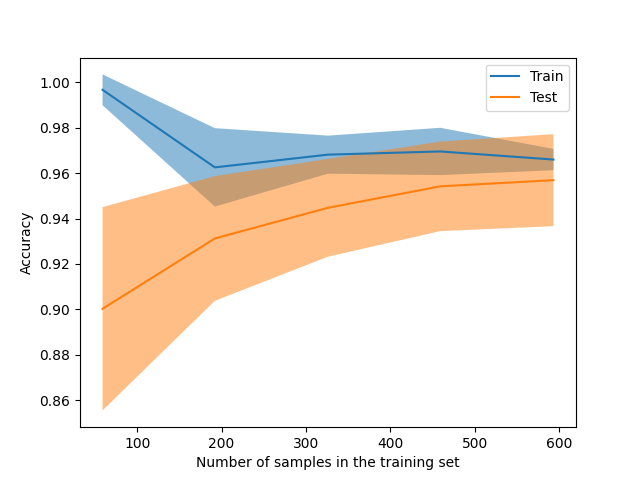
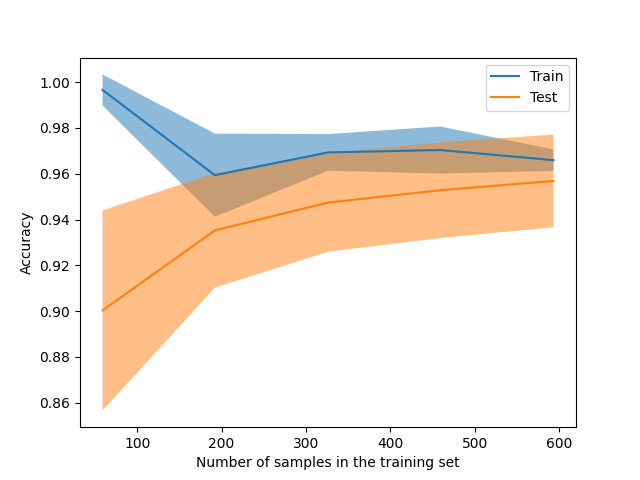
used registered model

diff --git a/templates/index.html b/templates/index.html
@@ -143,7 +143,7 @@
         
         <div class="mlflow-card">
             <h3><i class="fas fa-chart-bar"></i> MLflow Experiment Tracking</h3>
-            <a href="#" class="btn-outline">
+            <a href="{{dagshub_url}}" target="_blank" class="btn-outline">
                 <i class="fas fa-external-link-alt"></i> View Experiments on DagsHub
             </a>
         </div>

diff --git a/src/pipeline/prediction_pipeline.py b/src/pipeline/prediction_pipeline.py
@@ -2,52 +2,85 @@ import os
 import librosa
 import numpy as np
 import pandas as pd
+import mlflow
+import mlflow.pyfunc
+from src.constants import MLFLOW_TRACKING_URI
 from src.components.feature_extraction import FeatureExtractor
 from src.utils.main_utils import load_object
-from from_root import from_root
+from src.constants import SAMPLE_RATE, DURATION, MODEL_DIR
 from src.logger import logging
-from src.constants import ARTIFACT_DIR,SAMPLE_RATE, DURATION
+
+
+mlflow.set_tracking_uri(
+    MLFLOW_TRACKING_URI
+)
+
 
 class AudioPredictor:
-    def __init__(self):
+    """
+    Predicts speaker accent from an audio file by:
+      1. Loading a registered MLflow model (with preprocessing inside)
+      2. Extracting MFCC+ZCR+RMSE features from raw audio
+      3. Feeding features directly to the model
+      4. Decoding the predicted label with a saved label encoder
+    """
+
+    def __init__(self, model_version: str = "2"):
         try:
-            self.model_path = os.path.join(from_root(), "models", "model.joblib")
-            self.preprocessor_path =  os.path.join(ARTIFACT_DIR, "preprocessor.joblib")
-            self.label_encoder_path = os.path.join(ARTIFACT_DIR, "label_encoder.joblib")
-            self.label_encoder = load_object(self.label_encoder_path)
-            self.model = load_object(self.model_path)
-            self.preprocessor = load_object(self.preprocessor_path)
-            self.fe = FeatureExtractor()
-            
-            logging.info("AudioPredictor initialized successfully.")
-        except Exception as e:
-            logging.error(f"Initialization failed: {e}")
-            raise
-
-    def predict(self, audio_path):
-        try:
-            y, _ = librosa.load(audio_path, sr=SAMPLE_RATE, duration=DURATION)
-            if len(y) == 0:
-                raise ValueError("Audio file is empty or could not be loaded.")
-            
-            features = self.fe.extract_features(y)
-
-            if features is None:
-                raise ValueError("No features extracted from the audio file.")
-
-            # Define column names same as used during training
-            columns = [f"mfcc_{i+1}" for i in range(13)] + ["zcr", "rmse"]
-            features_df = pd.DataFrame([features], columns=columns)
+            # --- Load registered MLflow model ------------------------
+            self.model_uri = f"models:/AccentClassifier/{model_version}"
+            self.model = mlflow.pyfunc.PyFuncModel = mlflow.pyfunc.load_model(
+                self.model_uri
+            )
 
            
-            transformed_features = self.preprocessor.transform(features_df)
-            prediction = self.model.predict(transformed_features)
-         
-            logging.info(f"Prediction: {prediction[0]}")
+            self.label_encoder = load_object(
+                os.path.join(MODEL_DIR, "label_encoder.joblib")
+            )
+            self.fe = FeatureExtractor()
 
-            decoded_label = self.label_encoder.inverse_transform(np.ravel(prediction))[0]
-            return decoded_label  
+            logging.info("AudioPredictor initialised (model %s).", self.model_uri)
+        except Exception as exc:
+            logging.exception("Failed to initialise AudioPredictor: %s", exc)
+            raise
 
-        except Exception as e:
-            logging.error(f"Prediction failed: {e}")
-            return None  
+
+    def predict(self, audio_path: str) -> str | None:
+        """
+        Parameters
+        ----------
+        audio_path : str
+            Path to a .wav / .flac / .mp3 file.
+
+        Returns
+        -------
+        str | None
+            Predicted accent label, or None if prediction failed.
+        """
+        try:
+            # --- Load & trim/pad audio --------------------------------
+            y, _ = librosa.load(audio_path, sr=SAMPLE_RATE, duration=DURATION)
+            if y.size == 0:
+                raise ValueError("Audio file is empty or unreadable")
+
+            # --- Feature extraction -----------------------------------
+            features = self.fe.extract_features(y)
+            if features is None:
+                raise ValueError("Feature extractor returned None")
+
+            cols = [f"mfcc_{i+1}" for i in range(13)] + ["zcr", "rmse"]
+            X = pd.DataFrame([features], columns=cols)
+
+            # --- Inference (pre‑processing is inside model) -----------
+            y_pred = self.model.predict(X)
+            decoded = self.label_encoder.inverse_transform(np.ravel(y_pred))[0]
+
+            logging.info("Prediction complete: %s", decoded)
+            return decoded
+
+        except Exception as exc:
+            logging.exception("Prediction failed: %s", exc)
+            return None
+
+
+

diff --git a/src/pipeline/training_pipeline.py b/src/pipeline/training_pipeline.py
@@ -11,7 +11,8 @@ import numpy as np
 import dagshub
 import mlflow.sklearn
 from src.constants import *
-
+from sklearn.pipeline import Pipeline
+from src.utils.main_utils import load_object
 
 # Set MLflow/DagsHub tracking URI and credentials
 
@@ -56,8 +57,12 @@ if __name__ == "__main__":
             log_learning_curve(model, train_csv= TRAIN_DATA, target_col="label")  
 
             try: 
-                mlflow.sklearn.log_model(model,artifact_path="model")
+                prepeocesser = load_object(os.path.join(MODEL_DIR, "preprocessor.joblib"))
+                final_model = Pipeline(steps=[('preprocessor', prepeocesser), ('classifier', model)])
+                mlflow.sklearn.log_model(final_model,artifact_path="model")
+
                 logging.info("Model logged using mlflow.sklearn.")
+
             except Exception as e:
                 mlflow.log_artifact(MODEL_PATH, artifact_path="model")
                 logging.warning(f"Could not use mlflow.sklearn. Used log_artifact instead. Reason: {e}")

diff --git a/src/constants/__init__.py b/src/constants/__init__.py
@@ -13,7 +13,7 @@ HOP_LENGTH = 512          # Hop size for STFT
 
 NUM_FILES = 90            # Number of files per accent
 MFCC_COUNT = 13           # Number of MFCCs to extract
-ARTIFACT_DIR = os.path.join(from_root(), "artifacts")
+
 
 LABELS = {
     "indian_accent": "indian",
@@ -39,3 +39,5 @@ MODEL_PATH = os.path.join(from_root(), "models", "model.joblib")
 MODEL_DIR = os.path.join(from_root(), "models")
 METRICS_PATH = os.path.join(from_root(), "reports", "metrics.yaml")
 REPORTS_DIR = os.path.join(from_root(), "reports")
+
+MLFLOW_TRACKING_URI = "https://dagshub.com/Himanshu0518/Accent-Recognition.mlflow"

diff --git a/src/components/data_preprocessing.py b/src/components/data_preprocessing.py
@@ -16,7 +16,7 @@ class DataPreprocessor:
         self.output_dir = output_dir
         self.test_size = test_size
         self.random_state = random_state
-        self.artifact_dir = ARTIFACT_DIR
+        self.artifact_dir = MODEL_DIR
         os.makedirs(self.output_dir, exist_ok=True)
     
     def label_encode(self, y):
